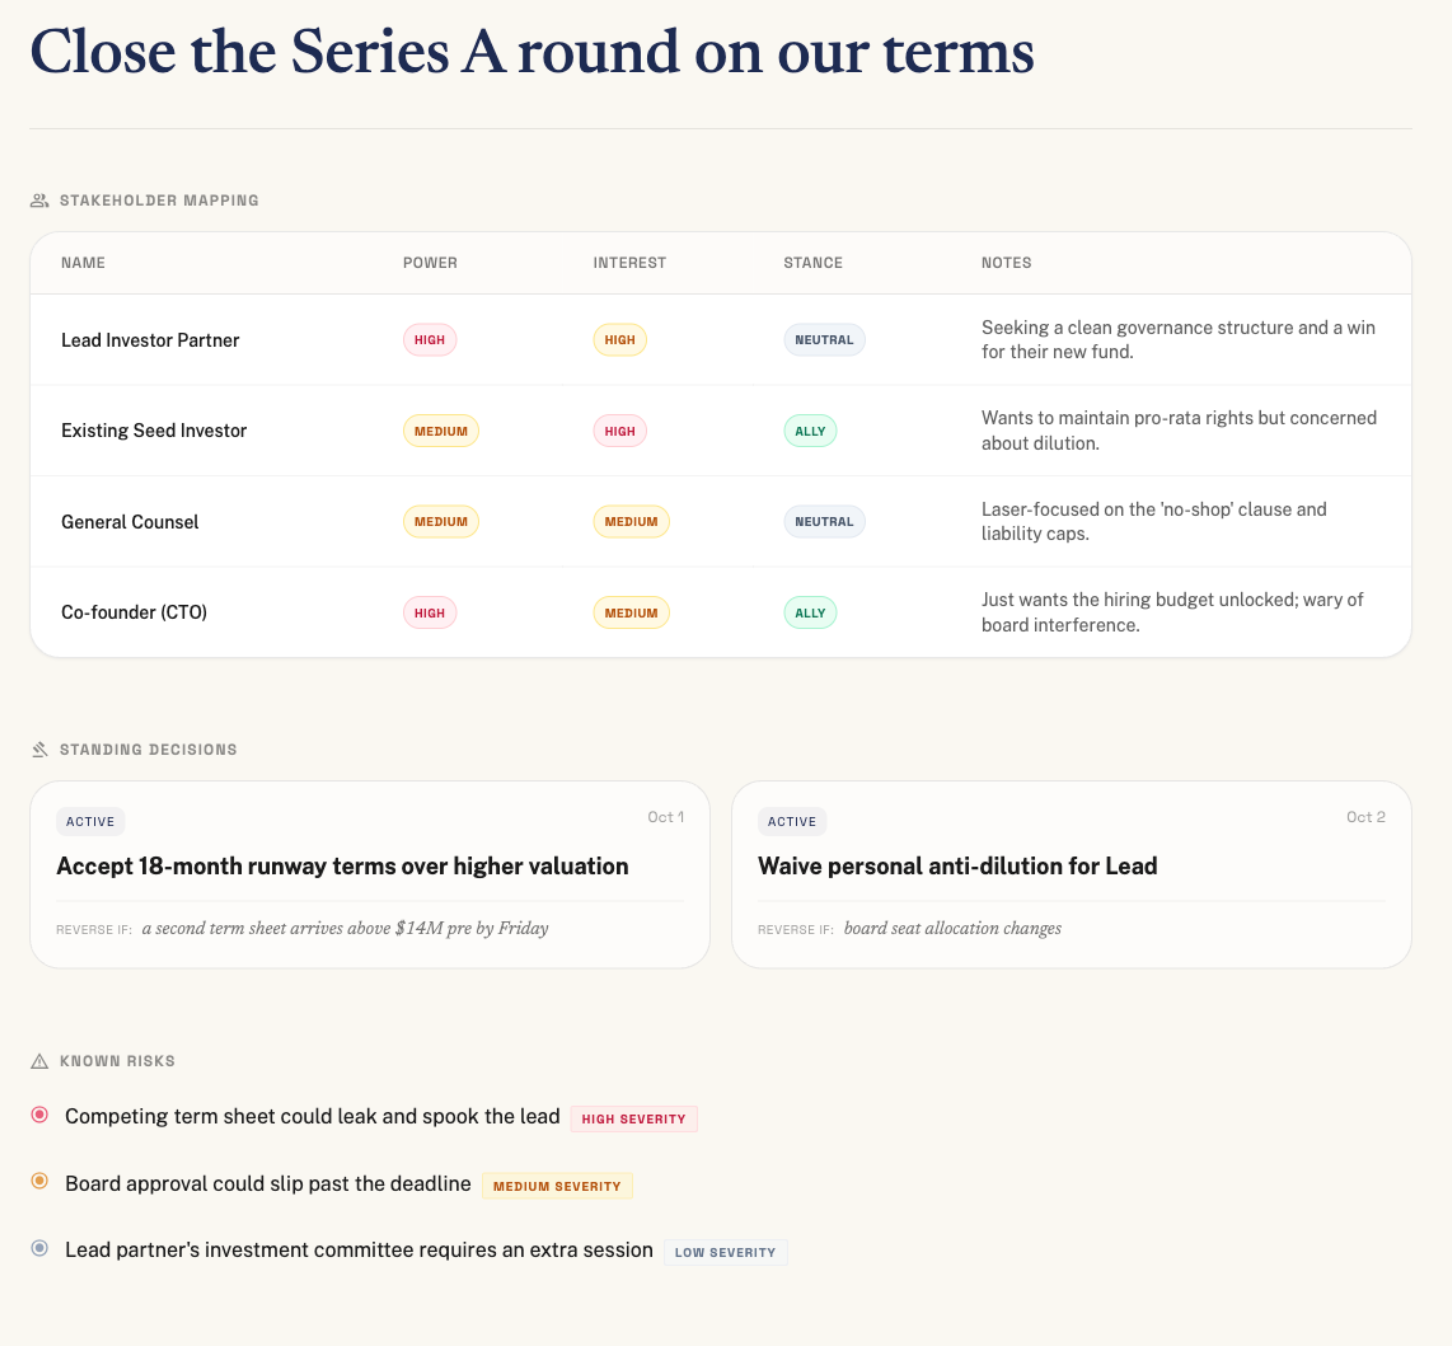
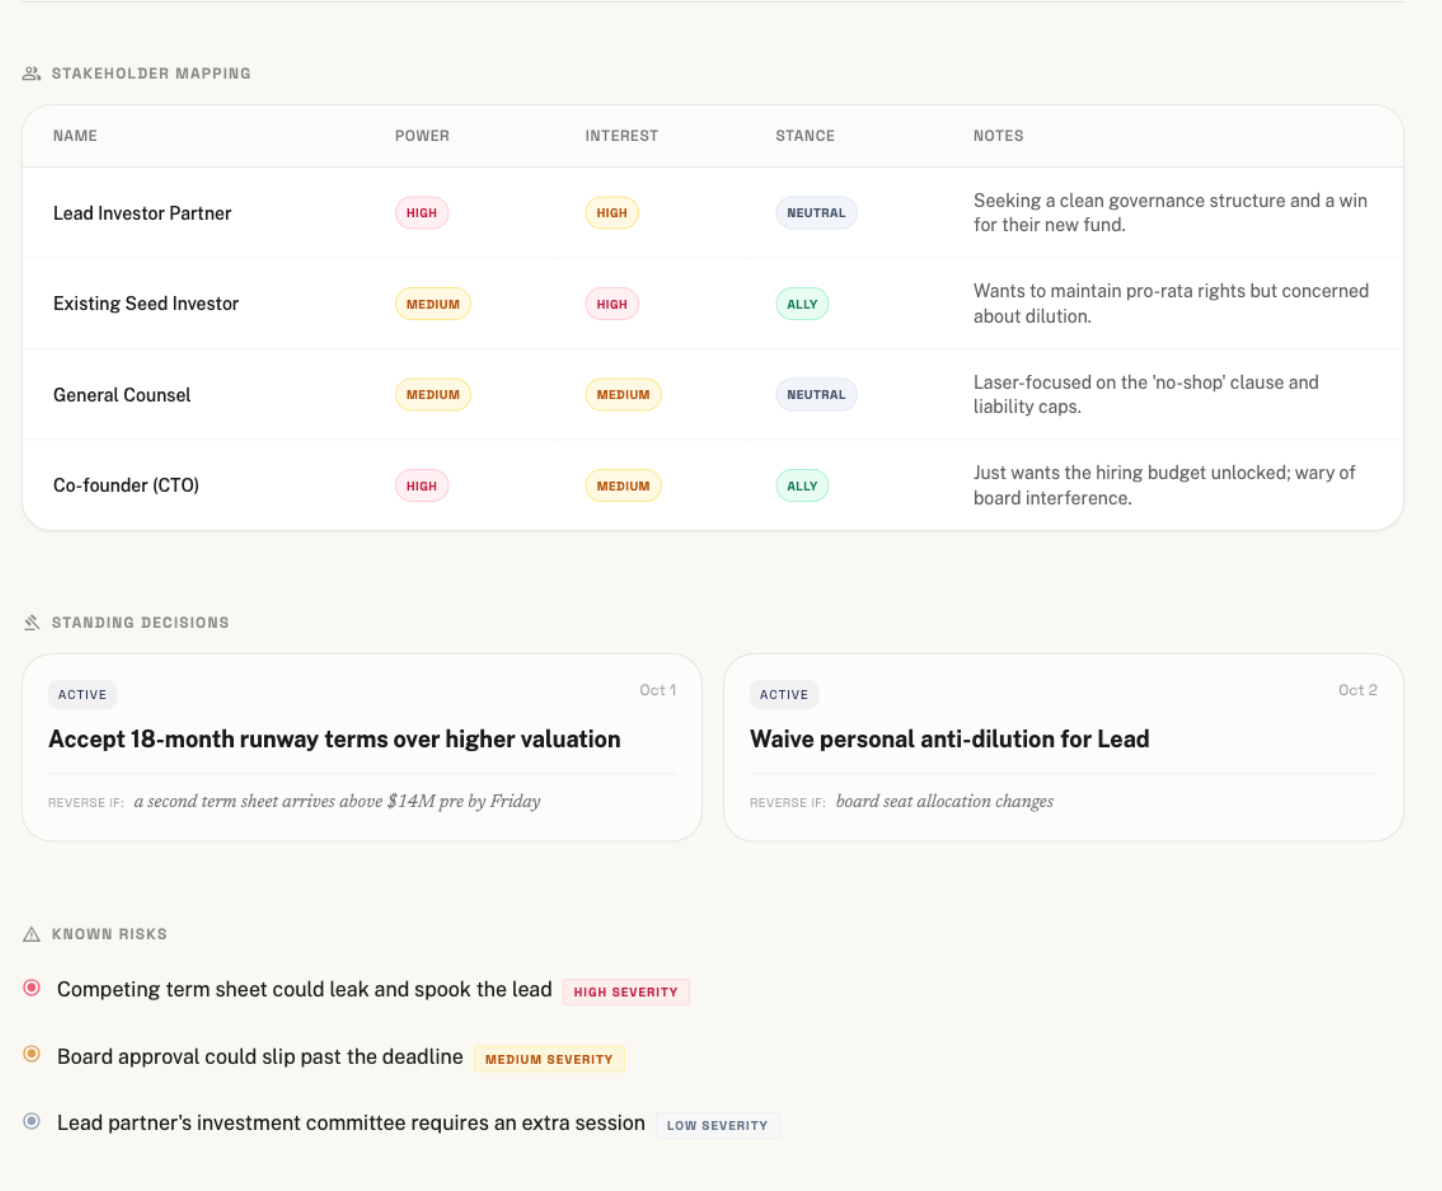
docs: update images

diff --git a/README.md b/README.md
@@ -63,15 +63,14 @@ Then just tell your agent what's on your mind e.g. "help me plan... [your goal]"
 gambit visualize        # open a local, auto-refreshing diagram view of the active goal
 ```
 
-<table>
-<tr>
-<td width="33%"><img src="https://raw.githubusercontent.com/skyf0xx/gambit/master/assets/screen-dashboard.png" alt="Goal overview showing the current focus, deadline, success criteria, and plan lines of operation"></td>
-<td width="33%"><img src="https://raw.githubusercontent.com/skyf0xx/gambit/master/assets/screen-people-risk.png" alt="Stakeholder mapping, standing decisions, and known risks for a goal"></td>
-<td width="33%"><img src="https://raw.githubusercontent.com/skyf0xx/gambit/master/assets/screen-strategy.png" alt="Strategic assessment with posture options, forecasts, and the culminating point"></td>
-</tr>
-<tr>
-<td align="center">Focus & plan</td>
-<td align="center">People & risk</td>
-<td align="center">Strategy & forecasts</td>
-</tr>
-</table>
+### Focus & plan
+
+![Goal overview showing the current focus, deadline, success criteria, and plan lines of operation](https://raw.githubusercontent.com/skyf0xx/gambit/master/assets/screen-dashboard.png)
+
+### People & risk
+
+![Stakeholder mapping, standing decisions, and known risks for a goal](https://raw.githubusercontent.com/skyf0xx/gambit/master/assets/screen-people-risk.png)
+
+### Strategy & forecasts
+
+![Strategic assessment with posture options, forecasts, and the culminating point](https://raw.githubusercontent.com/skyf0xx/gambit/master/assets/screen-strategy.png)
